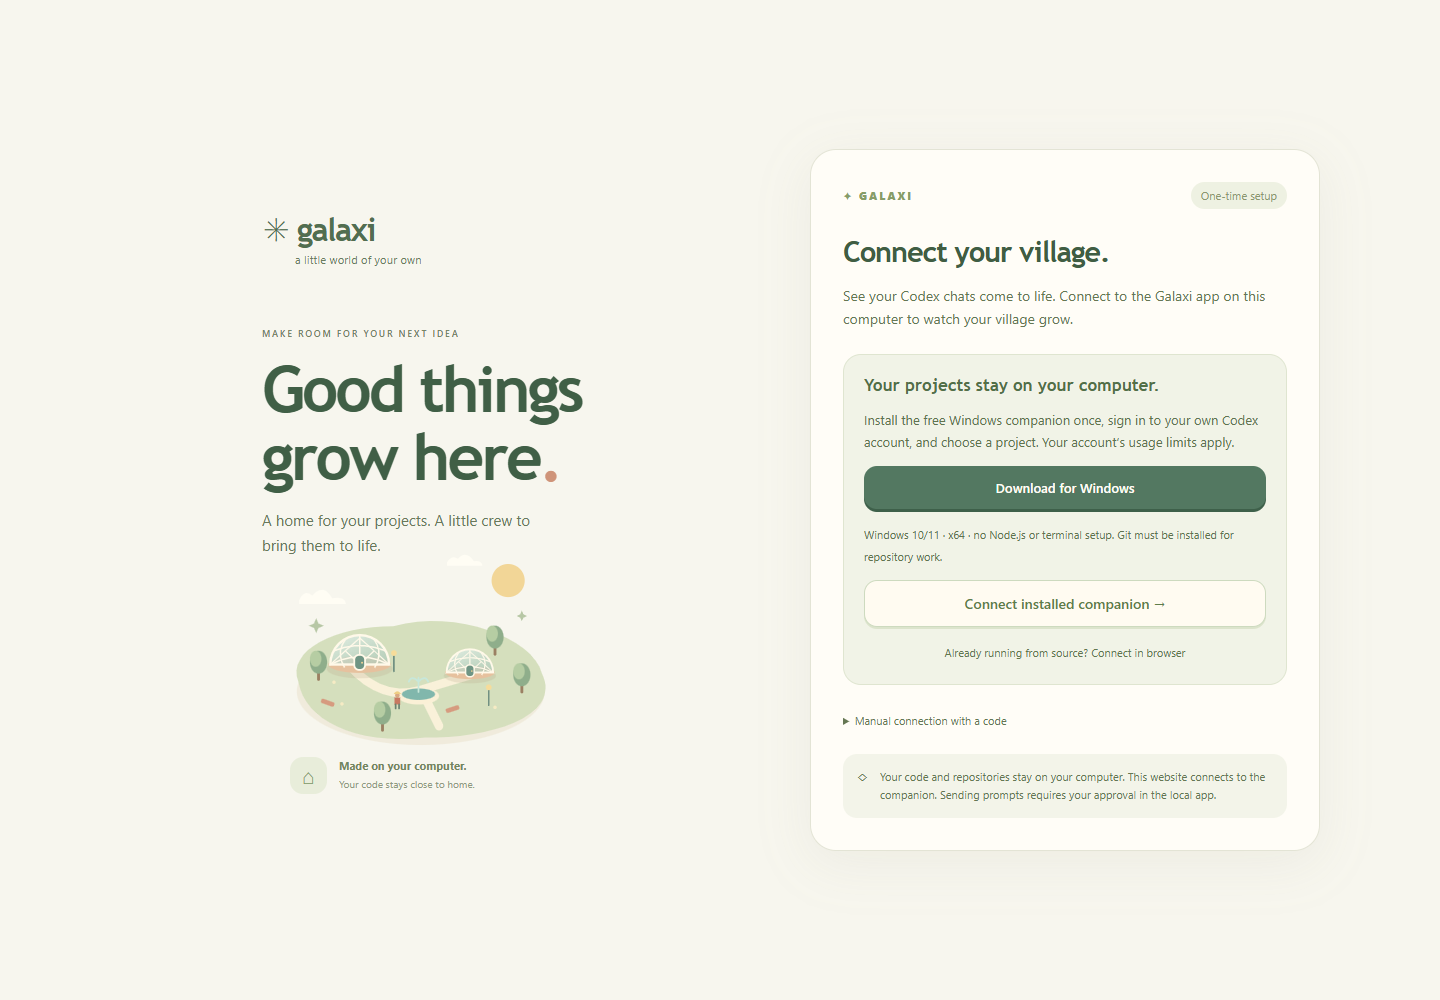
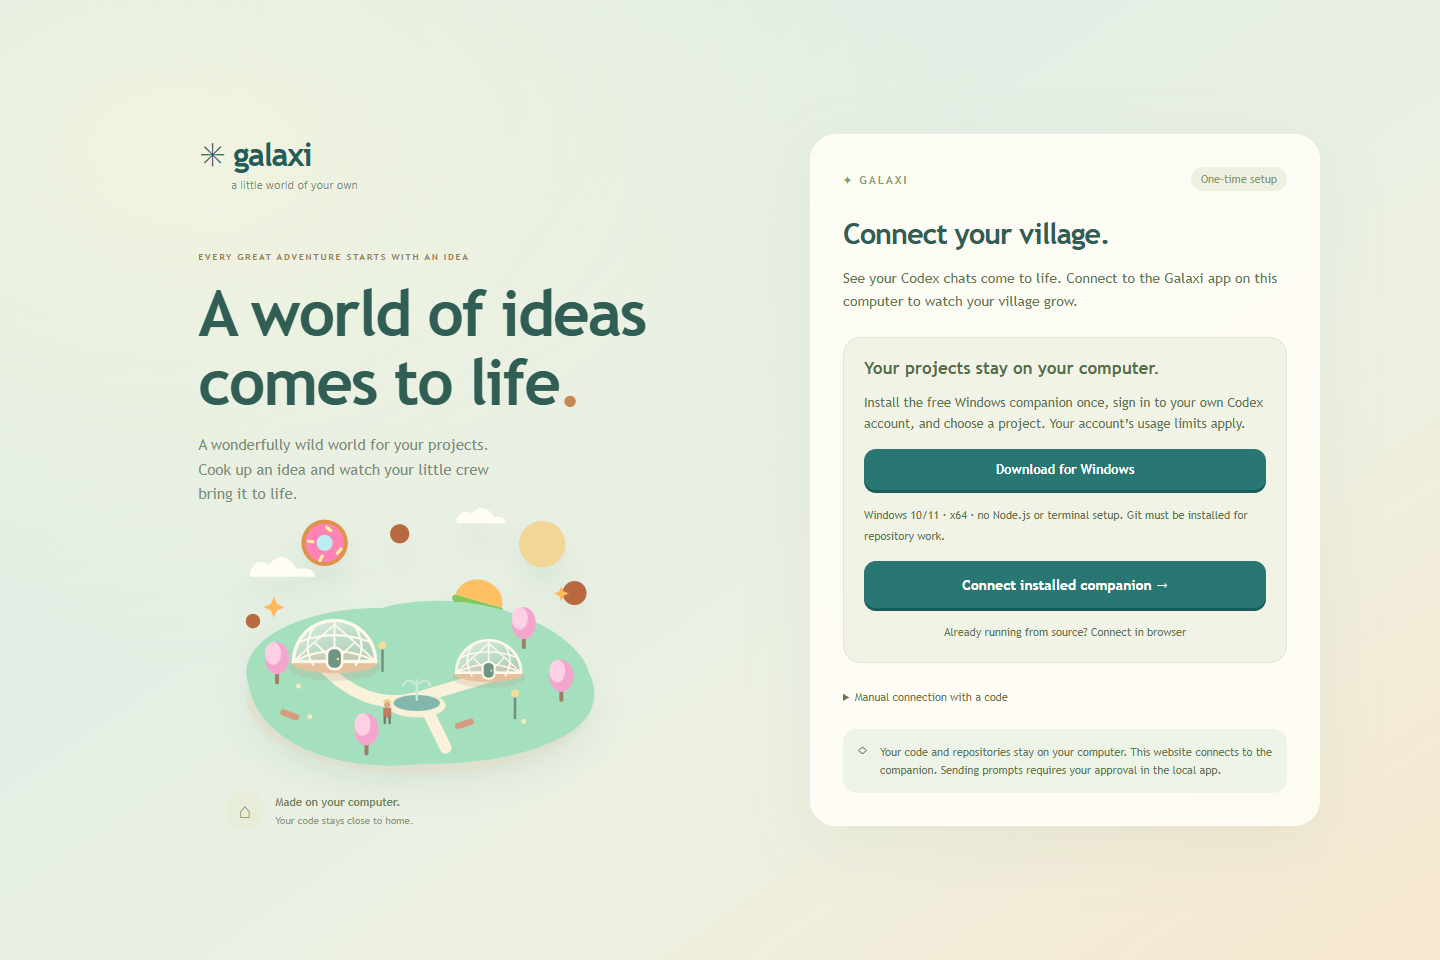
docs: refresh README with village and live panel screenshots

diff --git a/README.md b/README.md
@@ -4,7 +4,7 @@
 
 ### A little world for your big ideas.
 
-A playful 3D village for your Codex projects, with soft colours, glass domes, winding paths and a busy little crew. Watch recorded coding activity become construction, or send prompts from the website to your own local companion.
+A playful 3D village for your Codex projects. Each chat has its own detailed cottage, with tiled roofs, planted window boxes and paths leading to a shared fountain square. Follow recorded coding activity, inspect changes and checks, or send separate tasks to your own local companion.
 
 **[Open Galaxi](https://galaxi.dhakshini.studio)** · **[Download for Windows](https://github.com/srisaidhakshini/galaxi-companion/releases/latest/download/Galaxi-Setup.exe)** · **[Quick start](#quick-start)** · **[Run from source](#run-from-source)**
 
@@ -12,22 +12,44 @@ React · TypeScript · Three.js · Express · SQLite
 
 </div>
 
-![Galaxi desktop interface showing a circular village with three glass domes, a central fountain, paths, trees, and project navigation](docs/images/village-overview.png)
+![Galaxi village with four chat houses around a sandstone fountain square, connected paths, trees and project navigation](docs/images/village-overview.png)
 
-_The current website theme, shown with sample project data._
+_The current source build, shown with sample projects and conversations. Screenshots do not contain private chat data._
 
-## A habitat for every idea
+## One chat, one house
 
-| Feature                  | What it does                                                                                                                                                       |
-| ------------------------ | ------------------------------------------------------------------------------------------------------------------------------------------------------------------ |
-| **One chat, one dome**   | Each Codex chat gets a persistent home in its project's village. Later prompts continue the same building.                                                         |
-| **Build piece by piece** | Foundations, frames, glass panels, doors, windows, and furniture appear as prompt milestones and recorded construction stages advance. Growth has a cap.           |
-| **A working village**    | Workers walk, collect materials, carry, place, and hammer to illustrate observed activity. Trees, streetlights, paths, and a fountain bring the village together.  |
-| **Watch existing chats** | Keep prompting in Codex. Galaxi reads recorded activity without submitting another task or taking over approvals.                                                  |
-| **Run separate tasks**   | An optional local runner coordinates a lead and isolated implementation workers, checks their results, and leaves application to you.                              |
-| **Connect a browser**    | Approve the hosted website in the local companion. View-only is the default; optionally enable prompts that run on your computer. Access expires and is revocable. |
+| Feature                  | What it does                                                                                                                                                                 |
+| ------------------------ | ---------------------------------------------------------------------------------------------------------------------------------------------------------------------------- |
+| **A home for each chat** | Each Codex chat gets one persistent house on its own plot. Select the house or its name to open that chat's panel. Later prompts keep the same home.                         |
+| **Homes that grow**      | House size grows with recorded prompt count, up to 20 prompts. Tiled roofs, shutters, window boxes and stone steps give each home detail.                                    |
+| **A working village**    | Workers walk, collect materials, carry, place and hammer to illustrate observed activity. A paved fountain square, benches, planted beds and clear paths connect the houses. |
+| **Watch existing chats** | Keep prompting in Codex. Galaxi reads recorded activity without submitting another task or taking over approvals.                                                            |
+| **Run separate tasks**   | An optional local runner coordinates a lead and isolated implementation workers, checks their results, and leaves application to you.                                        |
+| **Connect a browser**    | Approve the hosted website in the local companion. View-only is the default; optionally enable prompts that run on your computer. Access expires and is revocable.           |
 
 > Construction is a visual interpretation of recorded activity, not a measured percentage of code completion. Watching a chat does not claim that Galaxi ran verification or award verified-task upgrades.
+
+## Follow the work inside each house
+
+Select a house to inspect its chat. Panels stay scoped to the selected house; a disconnected chat does not silently show another conversation.
+
+| Panel        | What you see                                                                                                                                      |
+| ------------ | ------------------------------------------------------------------------------------------------------------------------------------------------- |
+| **Chat**     | Recent public messages. New messages stay in view when you are at the bottom; scrolling up keeps your reading position.                           |
+| **Activity** | Recorded messages, commands, file edits, plans and supported tool calls for the latest or selected turn.                                          |
+| **Changes**  | Recorded file patches and file-writing commands. Shell-based edits may have command output without a patch.                                       |
+| **Checks**   | Recorded verification commands, their output and reported exit codes when available. A completed command alone does not verify the whole project. |
+| **History**  | The 20 most recent recorded turns. Open an earlier request to inspect its messages, changes and checks, then return to **Latest turn (live)**.    |
+
+<p align="center">
+  <a href="docs/images/chat-panel.png"><img src="docs/images/chat-panel.png" alt="Chat panel showing the selected house's conversation, recent public messages and live update status" width="31%" /></a>
+  <a href="docs/images/checks-panel.png"><img src="docs/images/checks-panel.png" alt="Checks panel showing a recorded production build command, exit code and expandable output" width="31%" /></a>
+  <a href="docs/images/history-panel.png"><img src="docs/images/history-panel.png" alt="History panel listing three recorded requests for the same chat house" width="31%" /></a>
+</p>
+
+_Conversation, checks and history panels, illustrated with sample data. Select an image to view it at full size._
+
+The **Live mirror** indicator shows when the companion last checked the chat. Delayed updates and disconnected sources are labelled, and **Refresh** requests a fresh snapshot. The observer reads recorded activity every two seconds; the browser also polls every five seconds as a fallback to live update notifications. Recorded activity can still lag the Codex desktop.
 
 ## Windows companion
 
@@ -37,7 +59,7 @@ The Windows x64 companion bundles Node.js, npm and Codex. It adds browser-based 
 
 This initial Windows x64 installer is unsigned. See [companion setup and packaging](docs/COMPANION.md) for installation, requirements and verification instructions.
 
-The website screenshots show the new village theme. The published **0.2.0 desktop installer** retains its earlier appearance; it works with the updated website and the same connection permissions.
+The screenshots show this repository's current source build. The published **0.2.0 desktop installer** retains its earlier appearance; it works with the website and the same connection permissions.
 
 ## Quick start
 
@@ -106,7 +128,7 @@ No manual code copying is needed for this flow. **Manual connection with a code*
 Prompt-enabled browsers can submit, steer and stop tasks in already-registered projects. Repository setup, runtime approvals and applying results stay in the local app. No developer-funded cloud AI service is used; work runs on the user's computer under their own Codex access and limits.
 
 <p align="center">
-  <img src="docs/images/connection-setup.png" alt="Galaxi’s playful village welcome page with an illustrated garden and companion connection options" width="980" />
+  <img src="docs/images/connection-setup.png" alt="Galaxi welcome page with a village illustration and options for connecting the local companion" width="980" />
 </p>
 
 See [pairing and troubleshooting](docs/PAIRING.md) for browser permissions and [deployment details](docs/DEPLOYMENT.md) for the static hosting boundary. Vercel hosts the frontend; it does not run the local companion.
@@ -137,14 +159,16 @@ Results live under `.local/workspaces/<task-id>/integration`, with worker worktr
 
 ## Structure
 
-- `src/City.tsx`: procedural city, five building levels, scene workers, camera and rendering fallback.
+- `src/City.tsx`, `src/VillageCraft.tsx`, `src/Scenery.tsx`: chat houses, village layout, detailed cottages, fountain square, scene workers, camera and rendering fallback.
 - `src/main.tsx`, `src/style.css`: project console, forms, approvals, replay and responsive layout.
-- `src/village-theme.css`, `src/VillageWelcome.tsx`: shared village palette, rounded interface and offline welcome illustration.
+- `src/village-theme.css`, `src/food-weather.css`, `src/VillageWelcome.tsx`: village styling, sea-glass and terracotta palette, responsive panels and offline welcome illustration.
+- `src/WatchedChat.tsx`, `shared/observedViews.ts`: live chat panels, turn selection, recorded checks and file-change filtering.
 - `shared/domain.ts`: renderer-independent entities, lifecycle, dependency validation and completion predicate.
 - `server/codex.ts`: stdio App Server JSON-RPC adapter.
 - `server/controller.ts`: planning, bounded scheduling, integration, checks and request routing.
 - `server/git.ts`: repository validation, worktrees, commits and command execution.
 - `server/store.ts`: SQLite snapshots, journal and transactional progression.
+- `server/observer.ts`: read-only chat discovery, independent polling per chat, recent turn history and archived-turn inspection.
 - `server/index.ts`: loopback API, SSE invalidations and Vite/static hosting.
 - `server/pairing.ts`, `shared/companionPermissions.ts`: local sessions, origin-bound grants, prompt permissions and revocation.
 - `src/CompanionPanel.tsx`, `src/companionClient.ts`, `src/connectionHandoff.ts`: connection setup, authenticated transport and one-time callback validation.
@@ -164,6 +188,16 @@ The isolated pairing browser check requires Microsoft Edge and uses sample data 
 ```powershell
 npm run test:pairing
 ```
+
+To check the interface and live panels, start Galaxi in another terminal, then run:
+
+```powershell
+$env:CITY_QA_ORIGIN = "http://127.0.0.1:4310"
+npm run test:ui
+npm run test:live-panels
+```
+
+These checks require Microsoft Edge and use browser-only sample data. They cover dynamic updates in Chat, Activity, Changes, Checks and History, house selection, archived turns, connection status, conversation scrolling and responsive layout. They do not start agents or write sample data into your projects. Set `CITY_QA_ORIGIN` to the running companion's address if you use another port.
 
 Optional checks against the real Codex runtime:
 
@@ -189,7 +223,9 @@ Automatic resume after controller restart, MCP elicitation forms, attachment upl
 
 The packaged-app and browser tests use isolated sample data. Real sign-in, live coding and clean-machine installer execution are not covered by those automated checks. See [verification and limitations](docs/VERIFICATION.md) for the evidence and scope.
 
-Registered project chats are discovered automatically every 30 seconds, within the eight-chat observation limit. Each chat gets its own dome; selecting it shows that chat's recorded activity. Stop watching is remembered so discovery does not reconnect a chat you stopped. Discovery only reads history and never starts or resumes agents.
+Registered project chats are discovered automatically every 30 seconds, within the eight-chat observation limit. Each chat gets its own house; selecting it shows that chat's recorded activity. Stop watching is remembered so discovery does not reconnect a chat you stopped. Discovery only reads history and never starts or resumes agents.
+
+The observer keeps the 20 most recent turn summaries and retrieves the latest 100 recorded items for an inspected turn. Longer turns show a truncation notice; older items and full conversation history remain in Codex. Recorded command output and patches are capped at 16,000 characters. Private reasoning is not copied into the village.
 
 ## Documentation
 
